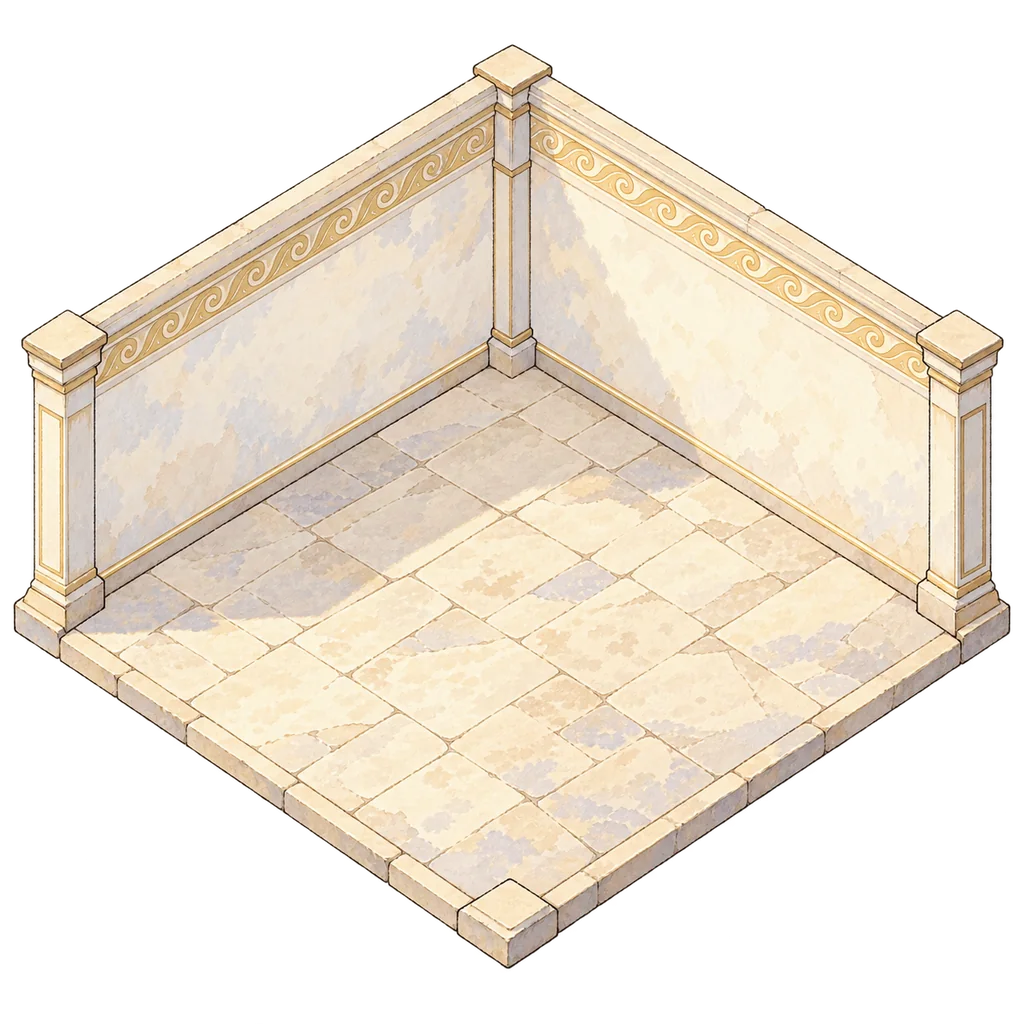
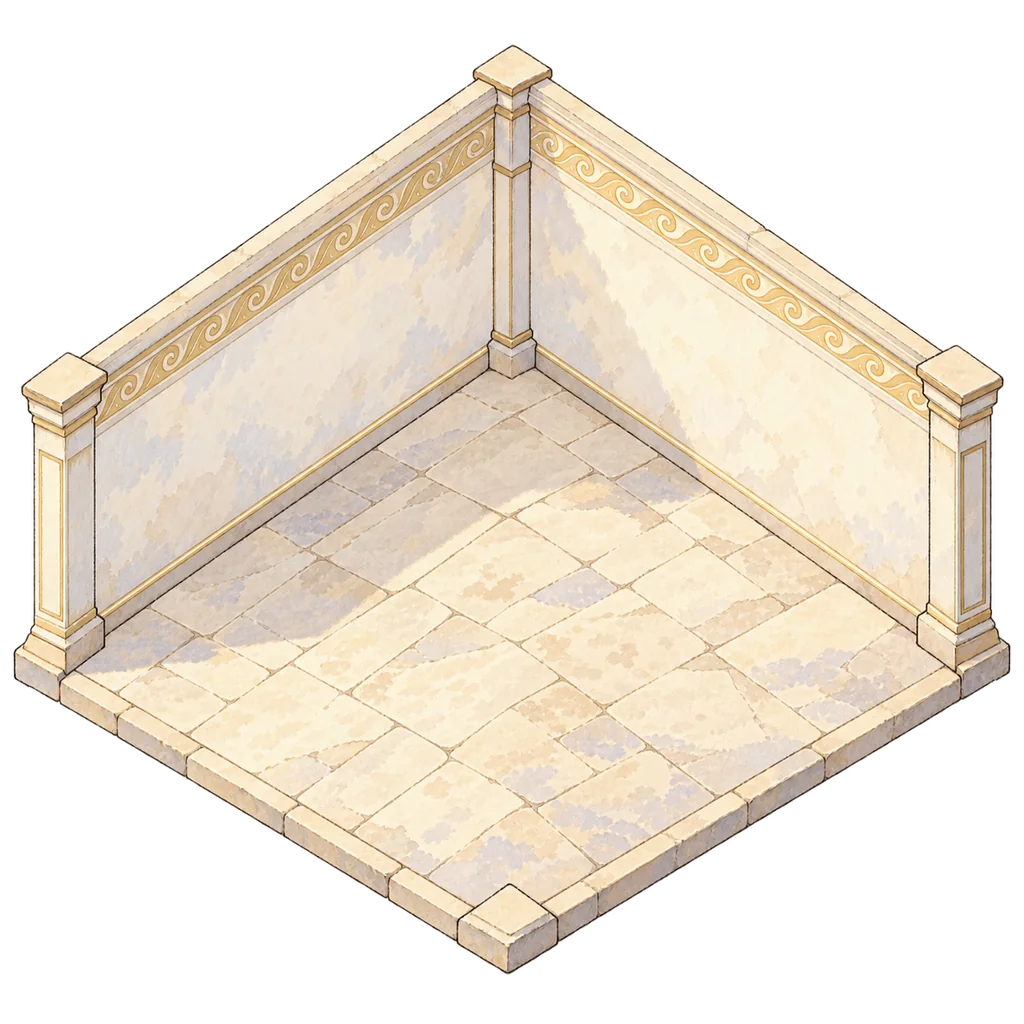
실내 배경 원근 보정: 가구와 소실점 맞춤(원본 보존, 파생본 사용)
Claude-Session: https://claude.ai/code/session_01NeX6Wp8Bj4aRYW5QNXbpea

Changed region(s): [[0.0, 0.3125, 1.0, 0.9688], [0.0, 0.0312, 1.0, 0.4688], [0.4688, 0.6875, 0.5, 0.7188]]

diff --git a/public/sw.js b/public/sw.js
@@ -1,6 +1,6 @@
 // 서비스워커: 그림·음악·데이터·해시된 빌드 파일은 기기에 저장해 두고(캐시 우선),
 // 화면 틀(index.html)과 서버 요청(supabase)은 항상 네트워크로 받는다.
-const VERSION = 'v1';
+const VERSION = 'v2';
 const ASSET_CACHE = `olympus-assets-${VERSION}`;
 
 self.addEventListener('install', (e) => self.skipWaiting());

diff --git a/scripts/straighten-room.py b/scripts/straighten-room.py
@@ -1,0 +1,46 @@
+"""실내 배경 원근 보정: 원본 실내 그림은 뒤쪽 바닥선 기울기 0.55, 앞쪽 0.72로 원근이 들어가 있어
+기울기 0.65로 그린 가구(평행 투영)와 소실점이 맞지 않는다. 세로선은 그대로 두고 열마다 세로 방향만
+옮겨 바닥선을 0.65 평행사변형으로 맞춘다. 원본 PNG는 그대로 두고 파생본을 만든다.
+python3 -I scripts/straighten-room.py"""
+import json, os
+import numpy as np
+from PIL import Image
+ROOT = os.path.dirname(os.path.dirname(os.path.abspath(__file__)))
+SRC = os.path.join(ROOT, 'assets-src/quarterview-v1/images/environments/room_base.png')
+OUT = os.path.join(ROOT, 'assets-src/derived/room_base_parallel.png')
+S = 0.65
+back, right, front, left = (633, 452), (1135, 738), (622, 1108), (118, 738)  # 원본 바닥 꼭짓점(눈 측정)
+
+def line(a, b):
+    m = (b[1] - a[1]) / (b[0] - a[0]); return lambda x: a[1] + m * (x - a[0])
+top_l, top_r = line(back, left), line(back, right)
+bot_l, bot_r = line(left, front), line(front, right)
+# 목표: 뒤 꼭짓점 높이 유지, 기울기 S
+t_back = back
+t_left = (left[0], back[1] + (back[0] - left[0]) * S)
+t_right = (right[0], back[1] + (right[0] - back[0]) * S)
+t_front_x = front[0]
+t_front = (t_front_x, t_left[1] + (t_front_x - left[0]) * S)
+ttop_l, ttop_r = line(t_back, t_left), line(t_back, t_right)
+tbot_l, tbot_r = line(t_left, t_front), line(t_front, t_right)
+
+im = np.asarray(Image.open(SRC).convert('RGBA')).astype(np.float32)
+H, W = im.shape[:2]
+OH = H
+out = np.zeros((OH, W, 4), np.float32)
+ys = np.arange(OH, dtype=np.float32)
+for x in range(W):
+    yt = top_l(x) if x <= back[0] else top_r(x)
+    yb = bot_l(x) if x <= front[0] else bot_r(x)
+    tyt = ttop_l(x) if x <= back[0] else ttop_r(x)
+    tyb = tbot_l(x) if x <= t_front[0] else tbot_r(x)
+    src_y = np.where(ys <= tyt, ys - (tyt - yt), np.where(ys >= tyb, ys - (tyb - yb), yt + (ys - tyt) * (yb - yt) / max(tyb - tyt, 1)))
+    for c in range(4):
+        out[:, x, c] = np.interp(src_y, np.arange(H), im[:, x, c], left=0, right=0)
+os.makedirs(os.path.dirname(OUT), exist_ok=True)
+Image.fromarray(np.clip(out, 0, 255).astype(np.uint8)).save(OUT)
+corners = [list(map(round, p)) for p in (t_back, t_right, t_front, t_left)]
+print('target corners', corners)
+json.dump({'source': 'assets-src/quarterview-v1/images/environments/room_base.png', 'output': 'assets-src/derived/room_base_parallel.png',
+           'method': 'column-wise vertical remap, slope 0.65', 'sourceFloorCorners': [back, right, front, left], 'floorCornersPx': corners},
+          open(os.path.join(ROOT, 'assets-src/derived/room_base_parallel.json'), 'w'), indent=1)

diff --git a/scripts/import-assets.py b/scripts/import-assets.py
@@ -46,6 +46,8 @@ if not os.path.exists(pack_dst):
 man = json.load(open(os.path.join(PACK, 'asset-manifest.json'), encoding='utf-8'))
 for a in man['assets']:
     src = os.path.join(PACK, a['file'])
+    if a['id'] == 'room_base':  # 원근을 편 파생본 사용(scripts/straighten-room.py)
+        src = os.path.join(ROOT, 'assets-src', 'derived', 'room_base_parallel.png')
     sub = 'env' if a['kind'] == 'environment' else 'furniture'
     side = 1024 if sub == 'env' else 512
     rel = f'assets/{sub}/{a["id"]}.webp'

diff --git a/docs/TEST-RESULTS.md b/docs/TEST-RESULTS.md
@@ -37,6 +37,7 @@
 - 초기 전송량(음악 제외): JS 약 172KB(gzip) + 실내 배경 169KB + 기본 가구 약 0.3MB. 도감 그림·장면·음악은 열 때만 받는다.
 
 ## 배치 보정
+- 실내 배경 원본은 원근이 들어가 있어(뒤쪽 바닥선 기울기 0.55, 앞쪽 0.72) 가구(평행 투영, 0.65)와 소실점이 맞지 않았다. 세로선은 그대로 두고 열마다 세로로만 옮겨 바닥을 0.65 평행사변형으로 편 파생본(`assets-src/derived/room_base_parallel.png`, `scripts/straighten-room.py`)을 게임에 쓴다. 원본 PNG는 그대로 보존. 정원 배경은 원래 0.65로 맞아 손대지 않았다.
 - 바닥 꼭짓점을 그림 위에서 다시 맞췄다(`src/data/calibration.json`, `asset-manifest.calibrated.json`).
 - 매니페스트 발자국 중 2건은 그림의 긴 축과 방향이 달라 고쳤다: 구름 침대 [2,3]→[3,2], 월계수 벤치 [3,1]→[1,3].
 - 받침대·찻상 위 슬롯은 눈 검수 후 켰다. 액자는 찻상 위에만, 보물은 받침대 위에만 놓인다.
